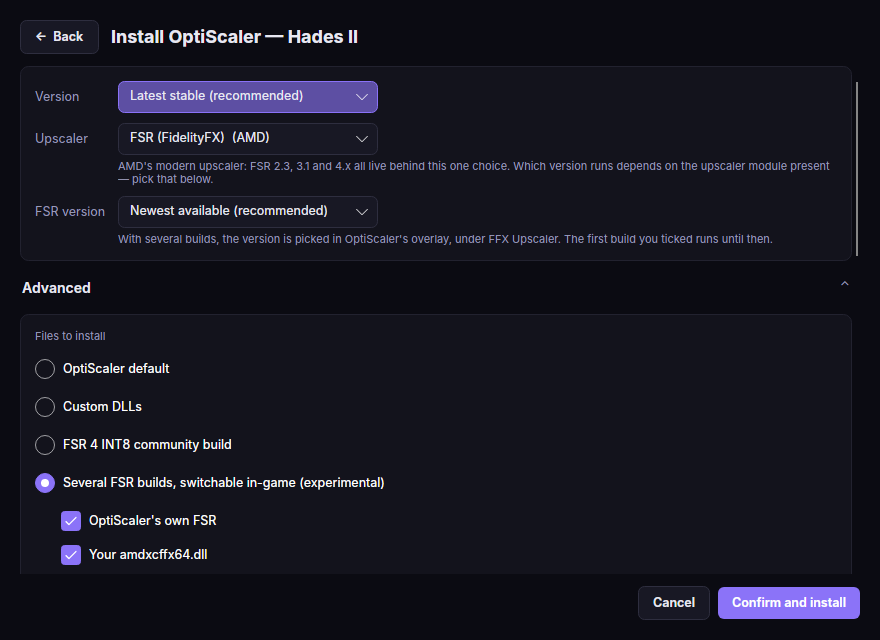
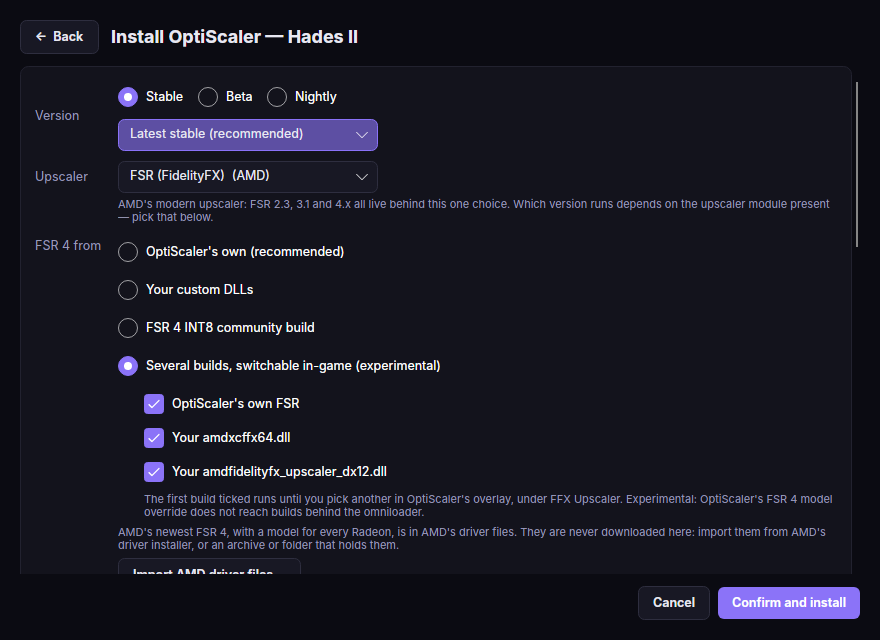
[testing] One "FSR 4 from" choice on the install page; testing builds
The install page asked where FSR 4 comes from in two places: a "Files to
install" list under Advanced, and a separate "AMD driver FSR 4 files"
checkbox further down, both of which could be on at once. It is now one
choice in the main card, beside the release and the upscaler:

- AMD's FSR from your driver files, named by the FSR version read from
  the file (falling back to the file's own), picked by default where they
  are needed (Linux) and marked recommended
- OptiScaler's own, the INT8 community build, the faster 4.1.1 builds,
  your custom DLLs (shown only once imported), and several builds behind
  the omniloader
- with no driver files on an AMD GPU, an "Import AMD driver files…"
  button right there, which picks them once they are in

The FSR version list includes the driver file's FSR 4 versions when it is
picked, and the omniloader lists driver builds by FSR version too.

Testing builds: a push to a claude/** or feature/** branch whose commit
says [testing] publishes a pre-release v<version>-test.<run>. The updater
reads releases/latest, which leaves pre-releases out, and now compares a
testing version as a version, so a tester is neither sent back to the
older release nor kept from the one it became. A [release] commit
releases only from main.

Claude-Session: https://claude.ai/code/session_01Ab6ixbtBF6jSD31u9rCVpy

diff --git a/src/UpscalerManager.App/Views/Pages/InstallPage.axaml.cs b/src/UpscalerManager.App/Views/Pages/InstallPage.axaml.cs
@@ -113,8 +113,7 @@ public partial class InstallPage : UserControl, IHostedPage
         var customMerged = this.FindControl<RadioButton>("RbCustomMerged")!;
         var def = this.FindControl<RadioButton>("RbDefault")!;
 
-        customMerged.IsEnabled = _manager.HasCustomDlls;
-        if (!customMerged.IsEnabled) customMerged.Content = "Custom DLLs — none imported (Settings)";
+        customMerged.IsVisible = _manager.HasCustomDlls;
 
         // A source switched off in Settings is not offered at all, rather than offered
         // and refused.
@@ -122,9 +121,13 @@ public partial class InstallPage : UserControl, IHostedPage
         SetupFasterOption();
         SetupOmniOption();
 
-        // Pre-selected, and under Advanced: OptiScaler's own release already bundles a
-        // working FSR 4.x upscaler, so the zero-decision path delivers FSR 4 as it is.
-        def.IsChecked = true;
+        // OptiScaler's own release already bundles a working FSR 4.x upscaler, so the
+        // zero-decision path delivers FSR 4 as it is; the player's AMD driver files, where
+        // they are needed, deliver AMD's newest.
+        var driver = this.FindControl<RadioButton>("RbAmdDriver")!;
+        SetupDriverOption(pick: true);
+        driver.IsCheckedChanged += (s, e) => { RefreshDriverRow(); OnOptionChanged(s, e); };
+        this.FindControl<ComboBox>("AmdDriverVersionCombo")!.SelectionChanged += OnOptionChanged;
 
         int8.IsCheckedChanged += OnInt8CheckedChanged;
         int8.IsCheckedChanged += OnOptionChanged;
@@ -420,7 +423,7 @@ public partial class InstallPage : UserControl, IHostedPage
             .ToList();
 
     /// <summary>
-    /// The FSR 4 model picker, the force switch and the AMD driver files. The picker is shown
+    /// The FSR 4 model picker and the force switch. The picker is shown
     /// only for a release that takes [FSR] Fsr4Model (OptiScaler 10 and newer).
     /// </summary>
     private void SetupFsr4Options()
@@ -432,41 +435,120 @@ public partial class InstallPage : UserControl, IHostedPage
         model.SelectedIndex = 0;
         model.SelectionChanged += OnOptionChanged;
         this.FindControl<CheckBox>("ChkForceFsr4")!.IsCheckedChanged += OnOptionChanged;
+    }
 
-        var driver = this.FindControl<CheckBox>("ChkAmdDriver")!;
+    /// <summary>
+    /// The player's AMD driver files as one place FSR 4 can come from, picked where they are
+    /// needed. Without them, an AMD GPU is shown how to bring them.
+    /// </summary>
+    private void SetupDriverOption(bool pick)
+    {
+        var option = this.FindControl<RadioButton>("RbAmdDriver")!;
+        var def = this.FindControl<RadioButton>("RbDefault")!;
         var versions = this.FindControl<ComboBox>("AmdDriverVersionCombo")!;
-        var imported = _manager.AmdDriverFilesImported
-            .GroupBy(f => f.Version)
+        var imported = _manager.AmdDriverFilesImported.GroupBy(f => f.Version).ToList();
+
+        versions.ItemsSource = imported
             .Select(g => new ComboBoxItem
             {
-                Content = $"{g.Key}  ({string.Join(" + ", g.Select(f => AmdDriverFiles.Describe(f.Api)))})",
+                Content = $"{DriverLabel(g)}  ({string.Join(" + ", g.Select(f => AmdDriverFiles.Describe(f.Api)))})",
                 Tag = g.ToList(),
             })
             .ToList();
+        versions.SelectedIndex = imported.Count > 0 ? 0 : -1;
 
-        if (imported.Count == 0)
+        var recommended = imported.Count > 0 && ManagerService.DriverFilesNeeded;
+        option.IsVisible = imported.Count > 0;
+        if (imported.Count > 0)
         {
-            driver.IsEnabled = false;
-            driver.Content = "AMD driver FSR 4 files — none imported (Settings)";
+            var fsr = imported[0].FirstOrDefault(f => f.Api == AmdDriverApi.Dx12) is { } dx12
+                && _manager.AmdDriverFsrVersions(dx12) is { Count: > 0 } read ? read[0] : "4";
+            option.Content = $"AMD's FSR {fsr}, from your driver files" + (recommended ? " (recommended)" : "");
         }
-        else
-        {
-            versions.ItemsSource = imported;
-            versions.SelectedIndex = 0;
-            versions.SelectionChanged += OnOptionChanged;
-            // On by default where nothing else provides them.
-            driver.IsChecked = ManagerService.DriverFilesNeeded;
-        }
-        driver.IsCheckedChanged += (s, e) => { RefreshDriverRow(); OnOptionChanged(s, e); };
+        def.Content = recommended ? "OptiScaler's own" : "OptiScaler's own (recommended)";
+
+        this.FindControl<StackPanel>("ImportDriverHint")!.IsVisible =
+            imported.Count == 0 && _manager.DetectPrimaryGpu()?.Vendor == GpuVendor.AMD;
+        if (pick) (recommended ? option : def).IsChecked = true;
         RefreshDriverRow();
+    }
+
+    private string DriverLabel(IEnumerable<AmdDriverFile> files)
+    {
+        var list = files.ToList();
+        return list.FirstOrDefault(f => f.Api == AmdDriverApi.Dx12) is { } dx12
+            ? _manager.AmdDriverLabel(dx12)
+            : $"AMD driver ({list[0].Version})";
+    }
+
+    /// <summary>Imports AMD's driver files from here, and picks them once they are in.</summary>
+    private async void OnImportDriverFiles(object? sender, RoutedEventArgs e)
+    {
+        if (TopLevel.GetTopLevel(this) is not { } top) return;
+        var files = await top.StorageProvider.OpenFilePickerAsync(new Avalonia.Platform.Storage.FilePickerOpenOptions
+        {
+            Title = "Select AMD's driver installer, an archive, or the driver files",
+            AllowMultiple = true,
+            FileTypeFilter = new[]
+            {
+                new Avalonia.Platform.Storage.FilePickerFileType("AMD driver installer, archive or DLL")
+                    { Patterns = new[] { "*.exe", "*.zip", "*.7z", "*.rar", "*.dll" } },
+            },
+        });
+        if (files is null || files.Count == 0) return;
+
+        var status = this.FindControl<TextBlock>("ImportDriverStatus")!;
+        var button = this.FindControl<Button>("ImportDriverButton")!;
+        button.IsEnabled = false;
+        // A driver installer is over a gigabyte, and reading through it takes a while.
+        status.Text = "Looking for the FSR 4 files… a driver installer takes a minute or two.";
+        try
+        {
+            var result = await _manager.ImportAmdDriverFilesAsync(files.Select(f => f.Path.LocalPath));
+            status.Text = result.Added.Count > 0 ? "" : "No driver file found. " + string.Join(" ", result.Notes);
+        }
+        catch (Exception ex)
+        {
+            status.Text = $"Import failed: {ex.Message}";
+        }
+        button.IsEnabled = true;
+
+        SetupDriverOption(pick: false);
+        var option = this.FindControl<RadioButton>("RbAmdDriver")!;
+        if (option.IsVisible) option.IsChecked = true;
+        UpdatePreview();
     }
 
     private void RefreshDriverRow()
     {
         var versions = this.FindControl<ComboBox>("AmdDriverVersionCombo")!;
         this.FindControl<StackPanel>("AmdDriverVersionPanel")!.IsVisible =
-            IsChecked("ChkAmdDriver") && versions.ItemCount > 1;
+            this.FindControl<RadioButton>("RbAmdDriver")!.IsChecked == true && versions.ItemCount > 1;
     }
+
+    /// <summary>One line on what the chosen FSR 4 source does; the options with a panel of their own say it there.</summary>
+    private void RefreshFsr4SourceNote()
+    {
+        var note = this.FindControl<TextBlock>("Fsr4SourceNoteText")!;
+        note.Text = CurrentBackend() switch
+        {
+            Fsr4Backend.Default when CurrentDriverFiles().Count > 0 =>
+                $"Placed next to OptiScaler, for {string.Join(" and ", CurrentDriverFiles().Select(f => AmdDriverFiles.Describe(f.Api)))}. "
+                + "They carry every FSR 4 model and run the one for your GPU unless the model under Advanced says otherwise."
+                + (ManagerService.DriverFilesNeeded ? "" : " Your installed driver already has FSR 4: a copy here pins this version."),
+            Fsr4Backend.Default => "The release as it ships, with the FSR upscaler it bundles.",
+            Fsr4Backend.CustomMerged => "Your DLLs from Settings, laid over the release.",
+            Fsr4Backend.Int8Community => "A third-party FSR 4 build, from OptiScaler Client extras.",
+            _ => "",
+        };
+        note.IsVisible = note.Text.Length > 0;
+    }
+
+    private IReadOnlyList<AmdDriverFile> CurrentDriverFiles() =>
+        this.FindControl<RadioButton>("RbAmdDriver")!.IsChecked == true
+            ? (this.FindControl<ComboBox>("AmdDriverVersionCombo")!.SelectedItem as ComboBoxItem)?.Tag as List<AmdDriverFile>
+              ?? (IReadOnlyList<AmdDriverFile>)Array.Empty<AmdDriverFile>()
+            : Array.Empty<AmdDriverFile>();
 
     /// <summary>Shows the model picker where the release takes it, with what "for this GPU" means here.</summary>
     private void RefreshFsr4Rows()
@@ -484,10 +566,7 @@ public partial class InstallPage : UserControl, IHostedPage
         var model = (this.FindControl<ComboBox>("Fsr4ModelCombo")!.SelectedItem as ComboBoxItem)?.Tag as Fsr4ModelChoice?
             ?? Fsr4ModelChoice.Auto;
         if (!_manager.Fsr4Schema(CurrentOptiScalerVersion()).HasModelKey) model = Fsr4ModelChoice.Auto;
-        var driverFiles = IsChecked("ChkAmdDriver")
-            ? (this.FindControl<ComboBox>("AmdDriverVersionCombo")!.SelectedItem as ComboBoxItem)?.Tag as List<AmdDriverFile>
-            : null;
-        return new Fsr4Options(model, IsChecked("ChkForceFsr4"), (IReadOnlyList<AmdDriverFile>?)driverFiles ?? Array.Empty<AmdDriverFile>());
+        return new Fsr4Options(model, IsChecked("ChkForceFsr4"), CurrentDriverFiles());
     }
 
     private FasterFsr4Kind CurrentFasterKind() =>
@@ -576,12 +655,13 @@ public partial class InstallPage : UserControl, IHostedPage
         var backend = CurrentBackend();
         var int8 = CurrentInt8Version();
         var release = CurrentOptiScalerVersion();
-        var signature = $"{backend}|{int8}|{release}";
+        var drivers = CurrentDriverFiles();
+        var signature = $"{backend}|{int8}|{release}|{drivers.FirstOrDefault()?.Version}";
         if (signature == _ffxVersionSource) return;
         _ffxVersionSource = signature;
 
         var combo = this.FindControl<ComboBox>("FfxVersionCombo")!;
-        var options = _manager.FidelityFxVersionOptions(_game, backend, int8, release);
+        var options = _manager.FidelityFxVersionOptions(_game, backend, int8, release, drivers);
 
         combo.Items.Clear();
 
@@ -645,6 +725,7 @@ public partial class InstallPage : UserControl, IHostedPage
         if (!_ready) return;
         RefreshUpscalerRows();
         RefreshFsr4Rows();
+        RefreshFsr4SourceNote();
         var preview = _manager.BuildInstallPreview(_game, CurrentBackend(), CurrentUpscaler(),
             addFakenvapi: IsChecked("ChkFakenvapi"), addNukemFg: IsChecked("ChkNukemFg"),
             spoofMethod: CurrentSpoofMethod(), fsr4: CurrentFsr4(),

diff --git a/src/UpscalerManager.App/Services/ManagerService.cs b/src/UpscalerManager.App/Services/ManagerService.cs
@@ -82,6 +82,30 @@ public sealed class ManagerService
 
     public void DeleteAmdDriverFile(AmdDriverFile file) => _amdDrivers.Delete(file);
 
+    private readonly Dictionary<string, IReadOnlyList<string>> _driverFsrVersions = new();
+
+    /// <summary>
+    /// The FSR 4 versions an imported driver file provides, newest first, read from its
+    /// provider table. Only FSR 4 numbers are believed: a driver DLL is large, and full of
+    /// other strings that look like versions.
+    /// </summary>
+    public IReadOnlyList<string> AmdDriverFsrVersions(AmdDriverFile file)
+    {
+        lock (_driverFsrVersions)
+        {
+            if (_driverFsrVersions.TryGetValue(file.Path, out var known)) return known;
+            var read = FidelityFxVersion.AllFromBinary(file.Path).Where(v => v.StartsWith("4.")).ToList();
+            _driverFsrVersions[file.Path] = read;
+            return read;
+        }
+    }
+
+    /// <summary>"AMD driver FSR 4.1.2 (2.4.0.4370)": the FSR version where the file says, and always the file's own.</summary>
+    public string AmdDriverLabel(AmdDriverFile file) =>
+        AmdDriverFsrVersions(file) is { Count: > 0 } fsr
+            ? $"AMD driver FSR {fsr[0]} ({file.Version})"
+            : $"AMD driver FSR 4 ({file.Version})";
+
     /// <summary>
     /// Whether an install should place driver files unless told otherwise: on Linux, where
     /// there is no AMD driver store for OptiScaler to find them in. On Windows the installed
@@ -226,7 +250,8 @@ public sealed class ManagerService
     /// and FSR 4 looked unavailable at exactly the moment it was being installed.
     /// </summary>
     public FfxVersionOptions FidelityFxVersionOptions(
-        Game game, Fsr4Backend backend, string? int8Version, string? optiscalerVersion = null)
+        Game game, Fsr4Backend backend, string? int8Version, string? optiscalerVersion = null,
+        IReadOnlyList<AmdDriverFile>? driverFiles = null)
     {
         // Behind the omniloader the list is every picked build's, merged at run time.
         if (backend == Fsr4Backend.Omniloader)
@@ -265,6 +290,16 @@ public sealed class ManagerService
                 fromInstall = FidelityFxProviderScanner.FromDirectory(ReleaseCache(optiscalerVersion));
                 label = "the OptiScaler release being installed";
                 break;
+        }
+
+        // OptiScaler loads AMD's driver file beside its own upscaler, so both lists are on offer.
+        if (driverFiles?.FirstOrDefault(f => f.Api == AmdDriverApi.Dx12) is { } driver
+            && AmdDriverFsrVersions(driver) is { Count: > 0 } fromDriver)
+        {
+            fromInstall = new FfxProviders(
+                FidelityFxProviderScanner.Merge(fromInstall?.Versions, fromDriver),
+                fromInstall is null ? driver.FileName : $"{fromInstall.FromFile} and {driver.FileName}");
+            label = fromInstall.FromFile == driver.FileName ? "your AMD driver files" : $"{label} and your AMD driver files";
         }
 
         var versions = FidelityFxProviderScanner.Merge(fromInstall?.Versions, fromGame?.Versions);
@@ -1126,7 +1161,7 @@ public sealed class ManagerService
         // Each imported DirectX 12 driver file is a build of its own: AMD's FSR 4.1.2 and
         // later carry every model and pick the one for the GPU.
         foreach (var driver in _amdDrivers.List().Where(f => f.Api == AmdDriverApi.Dx12))
-            options.Add(new($"driver:{driver.Version}", $"AMD driver FSR 4 {driver.Version}",
+            options.Add(new($"driver:{driver.Version}", AmdDriverLabel(driver),
                 "Your imported amdxcffx64.dll. It picks the FSR 4 model for this GPU itself."));
         return options;
     }

diff --git a/tests/UpscalerManager.UiHarness/Fsr4DriverChecks.cs b/tests/UpscalerManager.UiHarness/Fsr4DriverChecks.cs
@@ -35,11 +35,14 @@ internal sealed partial class Harness
         await BackAsync();
 
         // Stand-ins for the two files of an AMD driver: they hand FSR 4 out through
-        // UpdateFfxApiProvider and carry a version.
+        // UpdateFfxApiProvider and carry a version. The DirectX 12 one also carries a
+        // provider table, read for the FSR version it names, after the image where the
+        // loader ignores it.
         var unpacked = Path.Combine(Path.GetTempPath(), "um-harness-driver-" + Guid.NewGuid().ToString("N"), "Packages", "Drivers");
         Directory.CreateDirectory(unpacked);
         File.WriteAllBytes(Path.Combine(unpacked, AmdDriverFiles.Dx12Name),
-            PeTestData.BuildVersionedPeExporting("2.4.0.1234", AmdDriverFiles.ProviderExport));
+            PeTestData.BuildVersionedPeExporting("2.4.0.1234", AmdDriverFiles.ProviderExport)
+                .Concat(System.Text.Encoding.ASCII.GetBytes("\04.1.2\0" + "3.1.5\0")).ToArray());
         File.WriteAllBytes(Path.Combine(unpacked, AmdDriverFiles.VulkanName),
             PeTestData.BuildVersionedPeExporting("2.4.0.1234", AmdDriverFiles.ProviderExport));
         var import = await _manager.ImportAmdDriverFilesAsync(new[] { Path.GetDirectoryName(Path.GetDirectoryName(unpacked))! });
@@ -58,21 +61,25 @@ internal sealed partial class Harness
         await BackAsync();
 
         await OpenInstallFor("Stellar Blade");
-        Named<ToggleButton>("AdvancedToggle").IsChecked = true;
-        await Settle();
-        var driver = Named<CheckBox>("ChkAmdDriver");
-        Check("the install screen offers them, on by default on Linux",
-            driver.IsEnabled && driver.IsChecked == true, $"{driver.IsEnabled} {driver.IsChecked}");
+        var driver = Named<RadioButton>("RbAmdDriver");
+        Check("the install screen offers them by their FSR version, picked on Linux",
+            driver.IsVisible && driver.IsChecked == true, $"{driver.IsVisible} {driver.IsChecked}");
+        Check("  named so", driver.Content as string ?? "", "AMD's FSR 4.1.2, from your driver files (recommended)");
+        Check("  with no import button once they are in", !Named<StackPanel>("ImportDriverHint").IsVisible);
         Check("  the preview says where they go",
             FilesPreview().Contains("amdxcffx64.dll  (AMD driver 2.4.0.1234, FSR 4 for DirectX 12 — next to OptiScaler)")
                 && FilesPreview().Contains("amdvkffx64.dll  (AMD driver 2.4.0.1234, FSR 4 for Vulkan — next to OptiScaler)"),
             FilesPreview());
+        Check("  the FSR version list starts at the driver's",
+            (Named<ComboBox>("FfxVersionCombo").Items.OfType<ComboBoxItem>().FirstOrDefault()?.Content as string ?? "")
+                .Contains("FSR 4.1.2"),
+            Named<ComboBox>("FfxVersionCombo").Items.OfType<ComboBoxItem>().FirstOrDefault()?.Content as string ?? "");
         Check("  the model note says which model this GPU runs",
             Named<TextBlock>("Fsr4ModelNoteText").Text?.Contains("INT8 model") == true,
             Named<TextBlock>("Fsr4ModelNoteText").Text ?? "");
-        driver.IsChecked = false;
+        Named<RadioButton>("RbDefault").IsChecked = true;
         await Settle();
-        Check("  and leaves them out when switched off", !FilesPreview().Contains("AMD driver"), FilesPreview());
+        Check("  and leaves them out when OptiScaler's own is picked", !FilesPreview().Contains("AMD driver"), FilesPreview());
         driver.IsChecked = true;
         await Settle();
         driver.BringIntoView();

diff --git a/tests/UpscalerManager.UiHarness/InstallChecks.cs b/tests/UpscalerManager.UiHarness/InstallChecks.cs
@@ -29,6 +29,10 @@ internal sealed partial class Harness
         await Until(() => Page is InstallPage, "the install page");
         await Settle(600);
         Check("an ordinary game shows no anti-cheat warning", !Shown(Named<Border>("AntiCheatBox")));
+        Check("FSR 4 comes from OptiScaler's own until driver files are imported",
+            Named<RadioButton>("RbDefault").IsChecked == true && !Named<RadioButton>("RbAmdDriver").IsVisible,
+            Named<RadioButton>("RbDefault").Content as string ?? "");
+        Check("  and an AMD GPU is shown how to bring them", Shown(Named<StackPanel>("ImportDriverHint")));
         Shoot("install.png");
 
         // Stable, beta and nightly: each channel lists its own releases under its own latest.

diff --git a/src/UpscalerManager.Core/Services/AppUpdateService.cs b/src/UpscalerManager.Core/Services/AppUpdateService.cs
@@ -86,6 +86,12 @@ namespace UpscalerManager.Core.Services
             if (Version.TryParse(current, out var c) && Version.TryParse(latest, out var l))
                 return l > c;
 
+            // A testing build ("0.36.0-test.1") is compared as a version, so a tester is not
+            // offered the older release, and is offered the release it became.
+            static string Core(string v) => v.Split('-')[0];
+            if (Version.TryParse(Core(current), out _) && Version.TryParse(Core(latest), out _))
+                return VersionOrder.IsNewer(latest, current);
+
             return !string.Equals(current, latest, StringComparison.OrdinalIgnoreCase);
         }
 

diff --git a/tests/UpscalerManager.Core.Tests/AppUpdateServiceTests.cs b/tests/UpscalerManager.Core.Tests/AppUpdateServiceTests.cs
@@ -111,6 +111,9 @@ namespace UpscalerManager.Core.Tests
         [InlineData("0.6.0", "v0.7.0", true)]   // v-prefix on the remote tag
         [InlineData("0.9.9", "1.0.0", true)]
         [InlineData("0.6.0+abc", "0.6.0", false)] // build metadata ignored
+        [InlineData("0.36.0-test.4", "0.35.2", false)] // a testing build is not sent back
+        [InlineData("0.36.0-test.4", "0.36.0", true)]  // and is offered what it became
+        [InlineData("0.35.2", "0.36.0-test.4", true)]
         public void IsNewer_ComparesSemanticVersions(string current, string latest, bool expected)
             => Assert.Equal(expected, AppUpdateService.IsNewer(current, latest));
 

diff --git a/README.md b/README.md
@@ -90,7 +90,7 @@ placed and the exact `OptiScaler.ini` keys that will change, and updates as you 
 the options. Whatever is already there is backed up to a per-game store first, so
 **Remove** puts it back. A game with anti-cheat gets a warning before anything else.
 
-**Faster FSR 4.1.1, if you want it.** Under *Advanced → Files to install*, the
+**Faster FSR 4.1.1, if you want it.** Under *FSR 4 from*, the
 [FSR 4 shader overrides](https://github.com/zgauthier2000/fsr4-shader-performance-overrides)
 replace OptiScaler's FSR 4.1.1 upscaler with AMD's own DLL, its slowest shaders
 rewritten:
@@ -108,9 +108,11 @@ graphics, with `lossy` in the name for the lossy build) when it is the one runni
 **FSR 4 on more GPUs, through AMD's own driver files.** Since driver 26.10.1, AMD's FSR 4
 (4.1.2) carries four models: FP8 for RX 9000, INT8 for RX 7000, an INT8 model for RX 6000,
 and a small INT8 Lite model for integrated graphics. The driver picks the one for the GPU.
-- **On Linux** there is no AMD driver for OptiScaler to find them in, so the install
-  screen places your imported driver files next to OptiScaler (on by default there).
-  On Windows your installed driver already provides them.
+- **On Linux** there is no AMD driver for OptiScaler to find them in. Once you import
+  them, *FSR 4 from* on the install screen offers them by the FSR version they carry,
+  picked by default, and places them next to OptiScaler. Before that, the same spot has
+  an *Import AMD driver files…* button. On Windows your installed driver already
+  provides them.
 - **The model** can be picked at install for OptiScaler 10 and newer (`[FSR] Fsr4Model`),
   and changed later in OptiScaler's overlay.
 - **Forcing FSR 4** on a GPU OptiScaler does not list is written under the name each
@@ -118,7 +120,7 @@ and a small INT8 Lite model for integrated graphics. The driver picks the one fo
   `Fsr4ForceEnableInt8` (older). With no model picked it forces the GPU's own model, or
   INT8 Lite where FSR 4 has none, since Lite runs on any GPU.
 
-**Several FSR builds, switchable in-game.** Under *Advanced → Files to install*, tick
+**Several FSR builds, switchable in-game.** Under *FSR 4 from*, tick
 any number of builds from every source that is on: OptiScaler's own, the faster 4.1.1
 builds, each OptiScaler Client extras release, the DLLs you imported. The
 [omniloader](native/omniloader/README.md) takes the place of OptiScaler's FSR upscaler,
